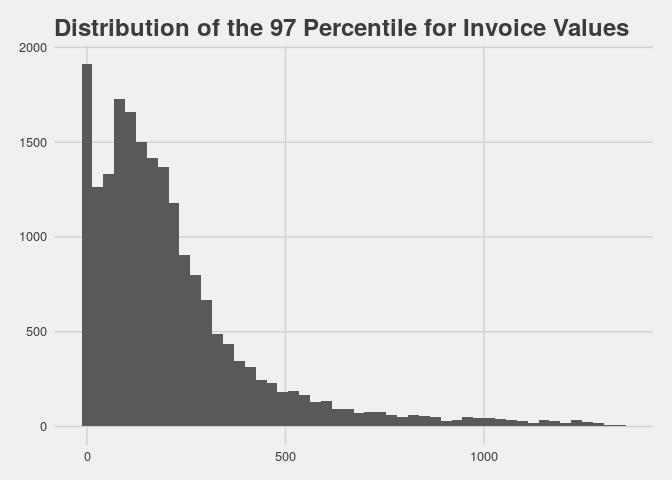
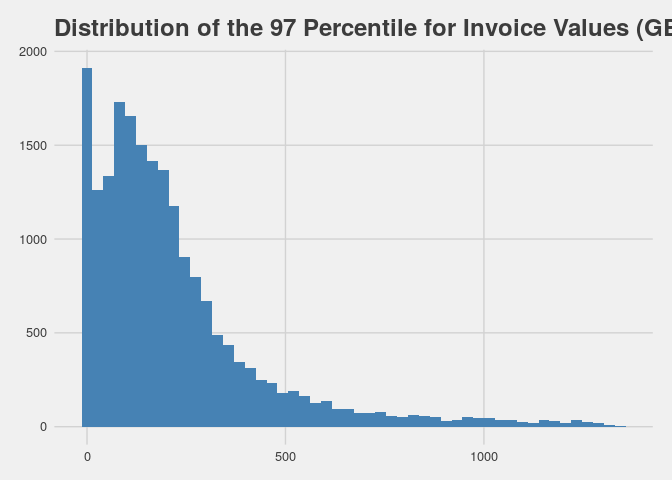
3rd commit

Changed region(s): [[0.0312, 0.0312, 1.0, 0.9062], [0.0312, 0.6562, 0.0625, 0.7188], [0.0312, 0.4688, 0.0625, 0.5312]]

diff --git a/helloFresh_dataExploration.md b/helloFresh_dataExploration.md
@@ -1,6 +1,8 @@
 Hello Fresh - Predicting the next order's value
 ================
 
+Clement Lefevre 2017-06-22
+
 Assignment for a Data Scientist training position at HelloFresh Berlin.
 
 Part 1 : EDA and features selection.
@@ -150,12 +152,12 @@ Exploratory Data Analysis
 ``` r
 # filter on the 97 percentile
 q.97<-quantile(df.per.CustomerID.InvoiceID$TotalValue,.97)
-ggplot(df.per.CustomerID.InvoiceID %>% filter(TotalValue<q.97) ,aes(x=TotalValue))+geom_histogram(bins =50) +theme_fivethirtyeight()+ ggtitle("Distribution of the 97 Percentile for Invoice Values")
+ggplot(df.per.CustomerID.InvoiceID %>% filter(TotalValue<q.97) ,aes(x=TotalValue))+geom_histogram(bins =50,fill="steelblue") +theme_fivethirtyeight()+ ggtitle("Distribution of the 97 Percentile for Invoice Values (GBP")
 ```
 
 ![](helloFresh_dataExploration_files/figure-markdown_github/unnamed-chunk-5-1.png)
 
-From the spread, it might be useful to use the **log values** to get a balanced distribution.
+From the spread, we observe a right-skewness, thus it might be useful to use the **log values** to get a balanced distribution.
 
 ### group per cohort
 
@@ -170,7 +172,7 @@ df.firstInvoice <-df %>%
 df.firstInvoice$cohort<- as.Date(floor_date(df.firstInvoice$InvoiceDate, "month"))
 groupy_cohort<- df.firstInvoice %>% group_by(cohort) %>% summarise(total_customers=n())
 
-ggplot(data=groupy_cohort,aes(x=cohort,y=total_customers))+geom_bar(stat = "identity")
+ggplot(data=groupy_cohort,aes(x=cohort,y=total_customers))+geom_bar(stat = "identity", fill="steelblue")
 ```
 
 ![](helloFresh_dataExploration_files/figure-markdown_github/unnamed-chunk-6-1.png)
@@ -189,7 +191,7 @@ groupy_frequency <- df.per.CustomerID %>% filter(!is.na(ReorderLeadTime)) %>%  g
 groupy_frequency_cohort<- groupy_frequency %>% group_by(cohort) %>% summarise(average.ReorderLeadTime=mean(average.ReorderLeadTime),average.Orders=mean(number_orders),average_orders_value=mean(orders_value))
 
 
-ggplot(data=groupy_frequency_cohort,aes(x=cohort,y=average.ReorderLeadTime))+ geom_bar(stat = "identity")+ggtitle("Average reorder Leadtime (days) per cohort")
+ggplot(data=groupy_frequency_cohort,aes(x=cohort,y=average.ReorderLeadTime))+ geom_bar(stat = "identity",fill="steelblue")+ggtitle("Average reorder Leadtime (days) per cohort")
 ```
 
     ## Don't know how to automatically pick scale for object of type difftime. Defaulting to continuous.
@@ -197,13 +199,13 @@ ggplot(data=groupy_frequency_cohort,aes(x=cohort,y=average.ReorderLeadTime))+ ge
 ![](helloFresh_dataExploration_files/figure-markdown_github/unnamed-chunk-7-1.png)
 
 ``` r
-ggplot(data=groupy_frequency_cohort,aes(x=cohort,y=average.Orders))+ geom_bar(stat = "identity")+ggtitle("Average number of order per cohort")
+ggplot(data=groupy_frequency_cohort,aes(x=cohort,y=average.Orders))+ geom_bar(stat = "identity",fill="steelblue")+ggtitle("Average number of order per cohort")
 ```
 
 ![](helloFresh_dataExploration_files/figure-markdown_github/unnamed-chunk-7-2.png)
 
 ``` r
-ggplot(data=groupy_frequency_cohort,aes(x=cohort,y=average_orders_value))+ geom_bar(stat = "identity")+ggtitle("Average order value (GBP) per cohort")
+ggplot(data=groupy_frequency_cohort,aes(x=cohort,y=average_orders_value))+ geom_bar(stat = "identity",fill="steelblue")+ggtitle("Average order value (GBP) per cohort")
 ```
 
 ![](helloFresh_dataExploration_files/figure-markdown_github/unnamed-chunk-7-3.png) Interesting enough, the average order value tends to decrease when the cohort gets younger, with an outlier in June 2011.
